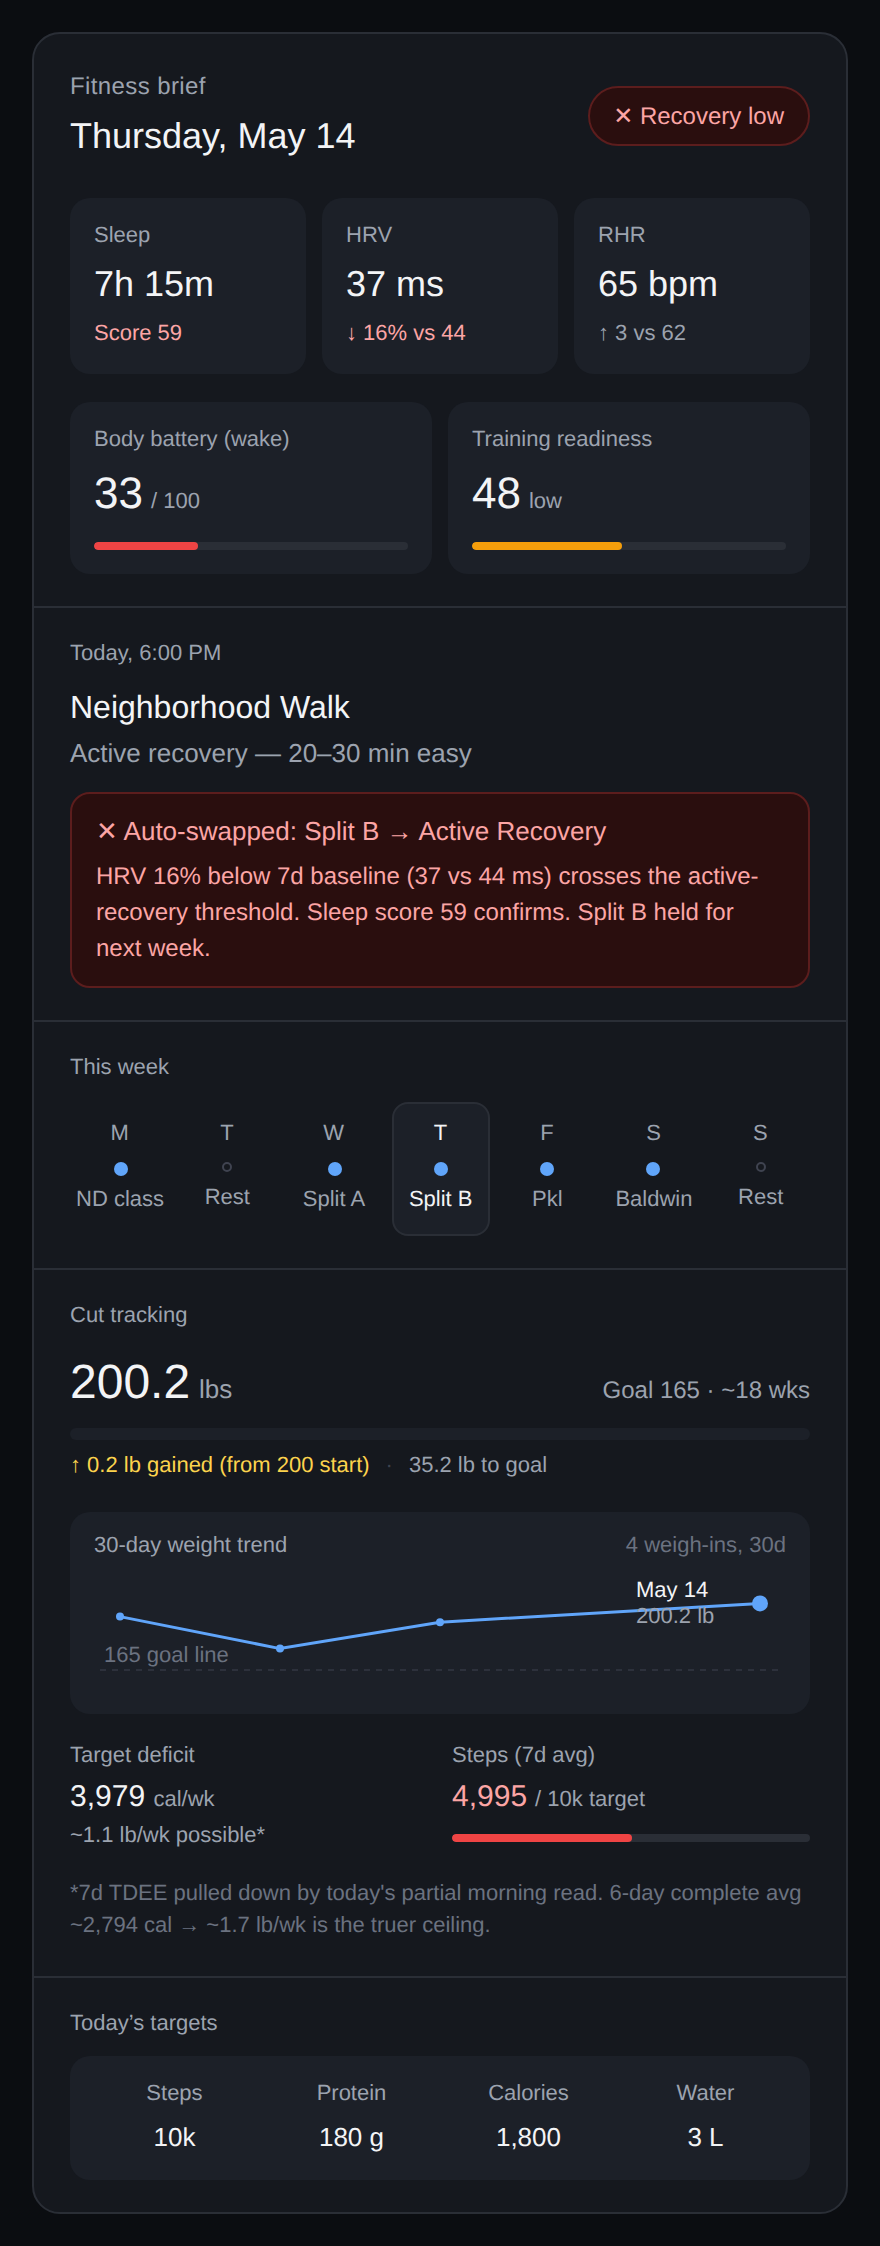
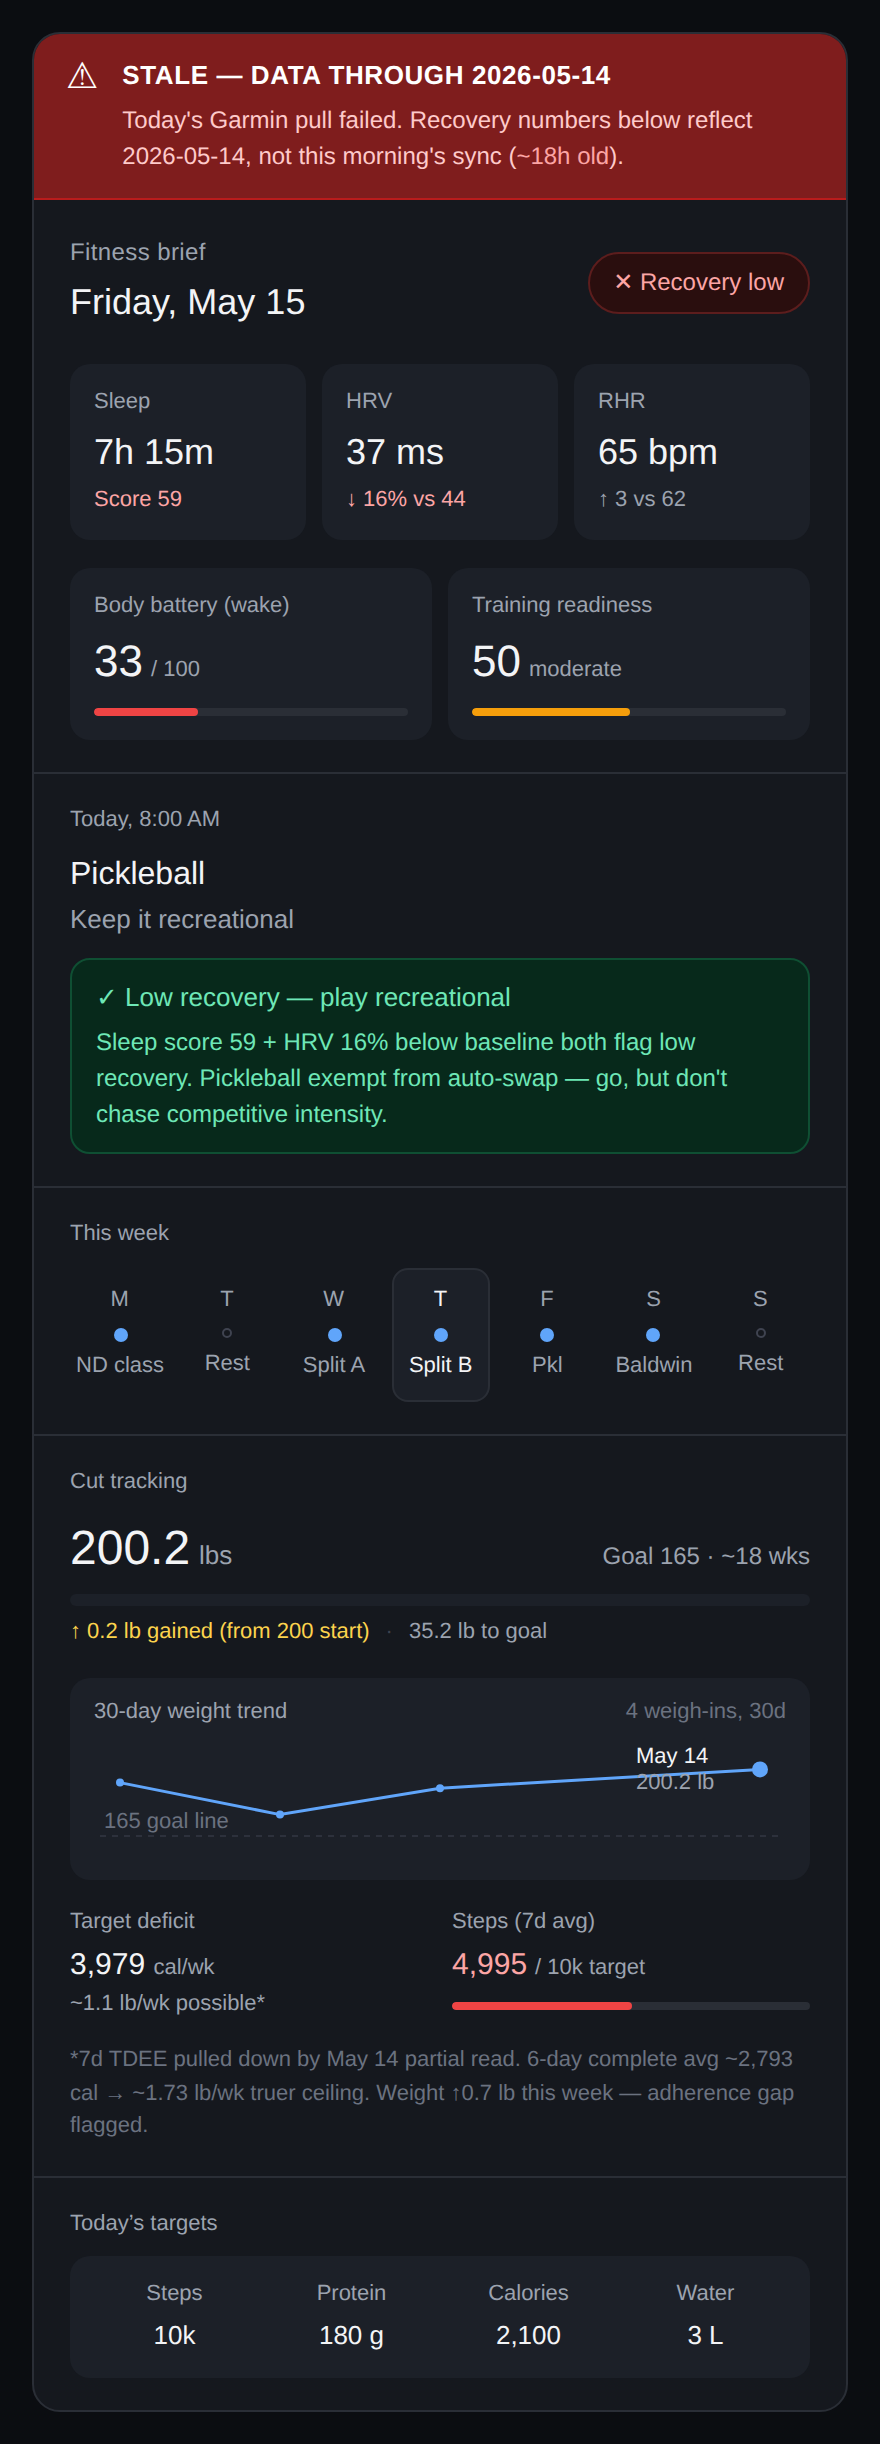
Deploy fitness brief: 2026-05-15

diff --git a/fitness/2026-05-14-brief.html b/fitness/2026-05-14-brief.html
@@ -2,7 +2,7 @@
 <html lang="en">
 <head>
 <meta charset="utf-8">
-<title>Fitness Brief — Thursday, May 14</title>
+<title>Fitness Brief — Friday, May 15</title>
 <style>
   /* Reset + base */
   *, *::before, *::after { box-sizing: border-box; margin: 0; padding: 0; }
@@ -304,12 +304,22 @@
 
   
   
+  <div class="stale-banner">
+    <div class="stale-icon">⚠</div>
+    <div class="stale-text">
+      <div class="stale-title">Stale — data through 2026-05-14</div>
+      <div class="stale-sub">
+        Today's Garmin pull failed. Recovery numbers below reflect 2026-05-14, not this morning's sync (<span class="stale-age">~18h old</span>).
+      </div>
+    </div>
+  </div>
+  
 
   
   <div class="header">
     <div>
       <div class="header-label">Fitness brief</div>
-      <div class="header-date">Thursday, May 14</div>
+      <div class="header-date">Friday, May 15</div>
     </div>
     <div class="pill pill-low">
       ✕
@@ -357,25 +367,25 @@
     <div class="stat">
       <div class="stat-label">Training readiness</div>
       <div class="baseline-row">
-        <span class="stat-value-lg">48</span>
-        <span class="unit">low</span>
+        <span class="stat-value-lg">50</span>
+        <span class="unit">moderate</span>
       </div>
-      <div class="bar"><div class="bar-fill bar-fill-watch" style="width: 48%;"></div></div>
+      <div class="bar"><div class="bar-fill bar-fill-watch" style="width: 50%;"></div></div>
     </div>
   </div>
   
 
   
   <div class="section">
-    <div class="section-label">Today, 6:00 PM</div>
-    <div class="session-name">Neighborhood Walk</div>
-    <div class="session-sub">Active recovery — 20–30 min easy</div>
-    <div class="adjustment adjustment-low">
+    <div class="section-label">Today, 8:00 AM</div>
+    <div class="session-name">Pickleball</div>
+    <div class="session-sub">Keep it recreational</div>
+    <div class="adjustment adjustment-good">
       <div class="adjustment-label">
-        ✕
-        Auto-swapped: Split B → Active Recovery
+        ✓
+        Low recovery — play recreational
       </div>
-      <div class="adjustment-why">HRV 16% below 7d baseline (37 vs 44 ms) crosses the active-recovery threshold. Sleep score 59 confirms. Split B held for next week.</div>
+      <div class="adjustment-why">Sleep score 59 + HRV 16% below baseline both flag low recovery. Pickleball exempt from auto-swap — go, but don't chase competitive intensity.</div>
     </div>
   </div>
 
@@ -491,7 +501,7 @@
       </div>
     </div>
 
-    <div class="footnote">*7d TDEE pulled down by today's partial morning read. 6-day complete avg ~2,794 cal → ~1.7 lb/wk is the truer ceiling.</div>
+    <div class="footnote">*7d TDEE pulled down by May 14 partial read. 6-day complete avg ~2,793 cal → ~1.73 lb/wk truer ceiling. Weight ↑0.7 lb this week — adherence gap flagged.</div>
   </div>
 
   
@@ -500,7 +510,7 @@
     <div class="targets-grid">
       <div class="target"><div class="target-label">Steps</div><div class="target-value">10k</div></div>
       <div class="target"><div class="target-label">Protein</div><div class="target-value">180 g</div></div>
-      <div class="target"><div class="target-label">Calories</div><div class="target-value">1,800</div></div>
+      <div class="target"><div class="target-label">Calories</div><div class="target-value">2,100</div></div>
       <div class="target"><div class="target-label">Water</div><div class="target-value">3 L</div></div>
     </div>
   </div>

diff --git a/fitness/index.html b/fitness/index.html
@@ -2,7 +2,7 @@
 <html lang="en">
 <head>
 <meta charset="utf-8">
-<title>Fitness Brief — Thursday, May 14</title>
+<title>Fitness Brief — Friday, May 15</title>
 <style>
   /* Reset + base */
   *, *::before, *::after { box-sizing: border-box; margin: 0; padding: 0; }
@@ -304,12 +304,22 @@
 
   
   
+  <div class="stale-banner">
+    <div class="stale-icon">⚠</div>
+    <div class="stale-text">
+      <div class="stale-title">Stale — data through 2026-05-14</div>
+      <div class="stale-sub">
+        Today's Garmin pull failed. Recovery numbers below reflect 2026-05-14, not this morning's sync (<span class="stale-age">~18h old</span>).
+      </div>
+    </div>
+  </div>
+  
 
   
   <div class="header">
     <div>
       <div class="header-label">Fitness brief</div>
-      <div class="header-date">Thursday, May 14</div>
+      <div class="header-date">Friday, May 15</div>
     </div>
     <div class="pill pill-low">
       ✕
@@ -357,25 +367,25 @@
     <div class="stat">
       <div class="stat-label">Training readiness</div>
       <div class="baseline-row">
-        <span class="stat-value-lg">48</span>
-        <span class="unit">low</span>
+        <span class="stat-value-lg">50</span>
+        <span class="unit">moderate</span>
       </div>
-      <div class="bar"><div class="bar-fill bar-fill-watch" style="width: 48%;"></div></div>
+      <div class="bar"><div class="bar-fill bar-fill-watch" style="width: 50%;"></div></div>
     </div>
   </div>
   
 
   
   <div class="section">
-    <div class="section-label">Today, 6:00 PM</div>
-    <div class="session-name">Neighborhood Walk</div>
-    <div class="session-sub">Active recovery — 20–30 min easy</div>
-    <div class="adjustment adjustment-low">
+    <div class="section-label">Today, 8:00 AM</div>
+    <div class="session-name">Pickleball</div>
+    <div class="session-sub">Keep it recreational</div>
+    <div class="adjustment adjustment-good">
       <div class="adjustment-label">
-        ✕
-        Auto-swapped: Split B → Active Recovery
+        ✓
+        Low recovery — play recreational
       </div>
-      <div class="adjustment-why">HRV 16% below 7d baseline (37 vs 44 ms) crosses the active-recovery threshold. Sleep score 59 confirms. Split B held for next week.</div>
+      <div class="adjustment-why">Sleep score 59 + HRV 16% below baseline both flag low recovery. Pickleball exempt from auto-swap — go, but don't chase competitive intensity.</div>
     </div>
   </div>
 
@@ -491,7 +501,7 @@
       </div>
     </div>
 
-    <div class="footnote">*7d TDEE pulled down by today's partial morning read. 6-day complete avg ~2,794 cal → ~1.7 lb/wk is the truer ceiling.</div>
+    <div class="footnote">*7d TDEE pulled down by May 14 partial read. 6-day complete avg ~2,793 cal → ~1.73 lb/wk truer ceiling. Weight ↑0.7 lb this week — adherence gap flagged.</div>
   </div>
 
   
@@ -500,7 +510,7 @@
     <div class="targets-grid">
       <div class="target"><div class="target-label">Steps</div><div class="target-value">10k</div></div>
       <div class="target"><div class="target-label">Protein</div><div class="target-value">180 g</div></div>
-      <div class="target"><div class="target-label">Calories</div><div class="target-value">1,800</div></div>
+      <div class="target"><div class="target-label">Calories</div><div class="target-value">2,100</div></div>
       <div class="target"><div class="target-label">Water</div><div class="target-value">3 L</div></div>
     </div>
   </div>

diff --git a/fitness/latest-brief.html b/fitness/latest-brief.html
@@ -2,7 +2,7 @@
 <html lang="en">
 <head>
 <meta charset="utf-8">
-<title>Fitness Brief — Thursday, May 14</title>
+<title>Fitness Brief — Friday, May 15</title>
 <style>
   /* Reset + base */
   *, *::before, *::after { box-sizing: border-box; margin: 0; padding: 0; }
@@ -304,12 +304,22 @@
 
   
   
+  <div class="stale-banner">
+    <div class="stale-icon">⚠</div>
+    <div class="stale-text">
+      <div class="stale-title">Stale — data through 2026-05-14</div>
+      <div class="stale-sub">
+        Today's Garmin pull failed. Recovery numbers below reflect 2026-05-14, not this morning's sync (<span class="stale-age">~18h old</span>).
+      </div>
+    </div>
+  </div>
+  
 
   
   <div class="header">
     <div>
       <div class="header-label">Fitness brief</div>
-      <div class="header-date">Thursday, May 14</div>
+      <div class="header-date">Friday, May 15</div>
     </div>
     <div class="pill pill-low">
       ✕
@@ -357,25 +367,25 @@
     <div class="stat">
       <div class="stat-label">Training readiness</div>
       <div class="baseline-row">
-        <span class="stat-value-lg">48</span>
-        <span class="unit">low</span>
+        <span class="stat-value-lg">50</span>
+        <span class="unit">moderate</span>
       </div>
-      <div class="bar"><div class="bar-fill bar-fill-watch" style="width: 48%;"></div></div>
+      <div class="bar"><div class="bar-fill bar-fill-watch" style="width: 50%;"></div></div>
     </div>
   </div>
   
 
   
   <div class="section">
-    <div class="section-label">Today, 6:00 PM</div>
-    <div class="session-name">Neighborhood Walk</div>
-    <div class="session-sub">Active recovery — 20–30 min easy</div>
-    <div class="adjustment adjustment-low">
+    <div class="section-label">Today, 8:00 AM</div>
+    <div class="session-name">Pickleball</div>
+    <div class="session-sub">Keep it recreational</div>
+    <div class="adjustment adjustment-good">
       <div class="adjustment-label">
-        ✕
-        Auto-swapped: Split B → Active Recovery
+        ✓
+        Low recovery — play recreational
       </div>
-      <div class="adjustment-why">HRV 16% below 7d baseline (37 vs 44 ms) crosses the active-recovery threshold. Sleep score 59 confirms. Split B held for next week.</div>
+      <div class="adjustment-why">Sleep score 59 + HRV 16% below baseline both flag low recovery. Pickleball exempt from auto-swap — go, but don't chase competitive intensity.</div>
     </div>
   </div>
 
@@ -491,7 +501,7 @@
       </div>
     </div>
 
-    <div class="footnote">*7d TDEE pulled down by today's partial morning read. 6-day complete avg ~2,794 cal → ~1.7 lb/wk is the truer ceiling.</div>
+    <div class="footnote">*7d TDEE pulled down by May 14 partial read. 6-day complete avg ~2,793 cal → ~1.73 lb/wk truer ceiling. Weight ↑0.7 lb this week — adherence gap flagged.</div>
   </div>
 
   
@@ -500,7 +510,7 @@
     <div class="targets-grid">
       <div class="target"><div class="target-label">Steps</div><div class="target-value">10k</div></div>
       <div class="target"><div class="target-label">Protein</div><div class="target-value">180 g</div></div>
-      <div class="target"><div class="target-label">Calories</div><div class="target-value">1,800</div></div>
+      <div class="target"><div class="target-label">Calories</div><div class="target-value">2,100</div></div>
       <div class="target"><div class="target-label">Water</div><div class="target-value">3 L</div></div>
     </div>
   </div>
